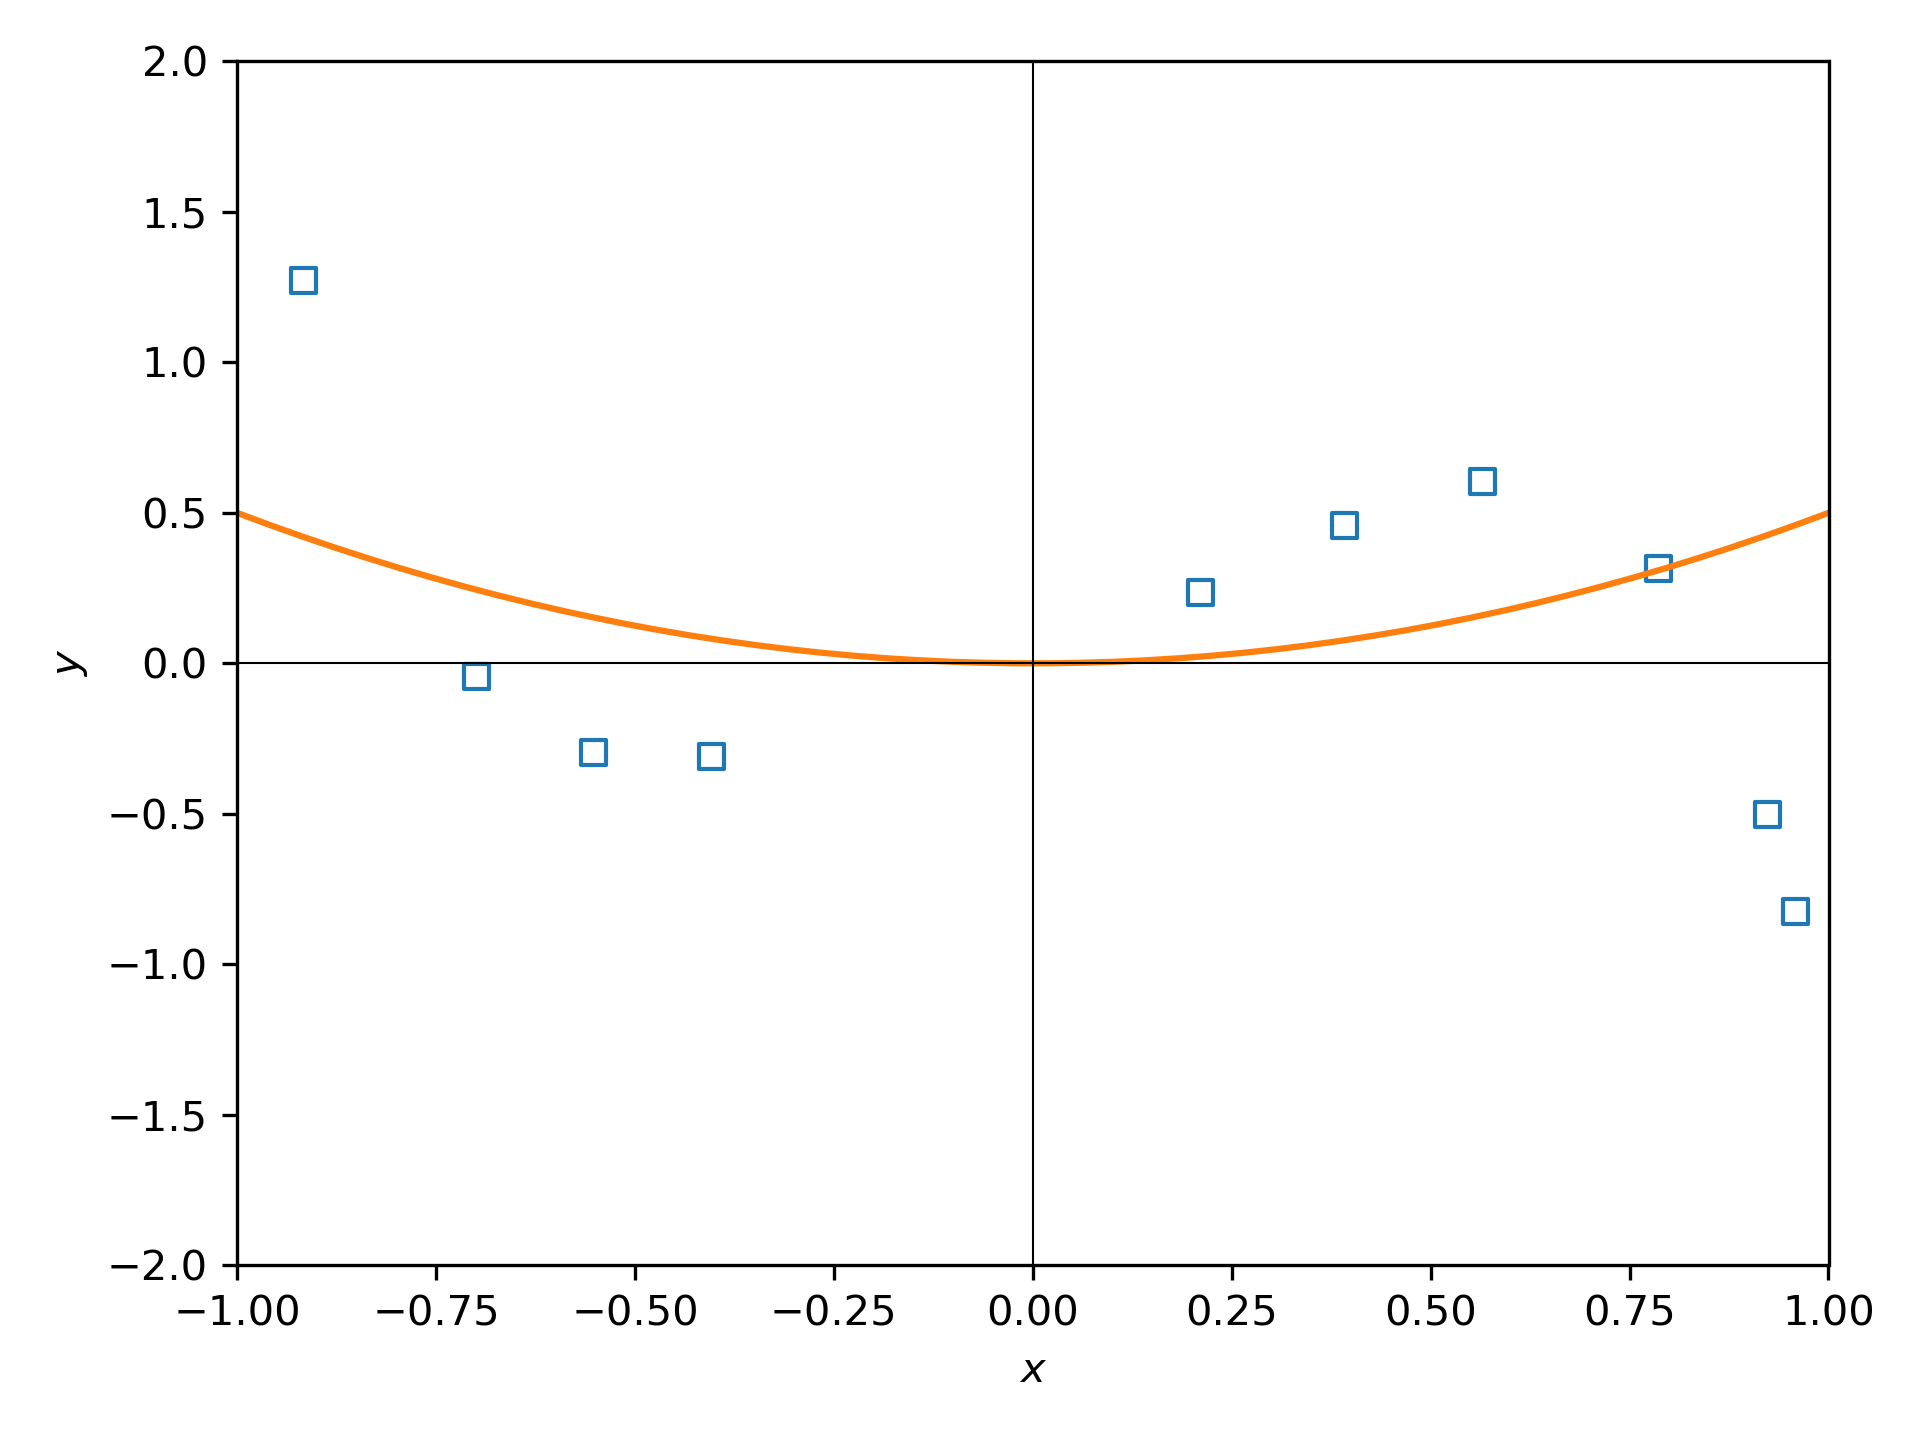
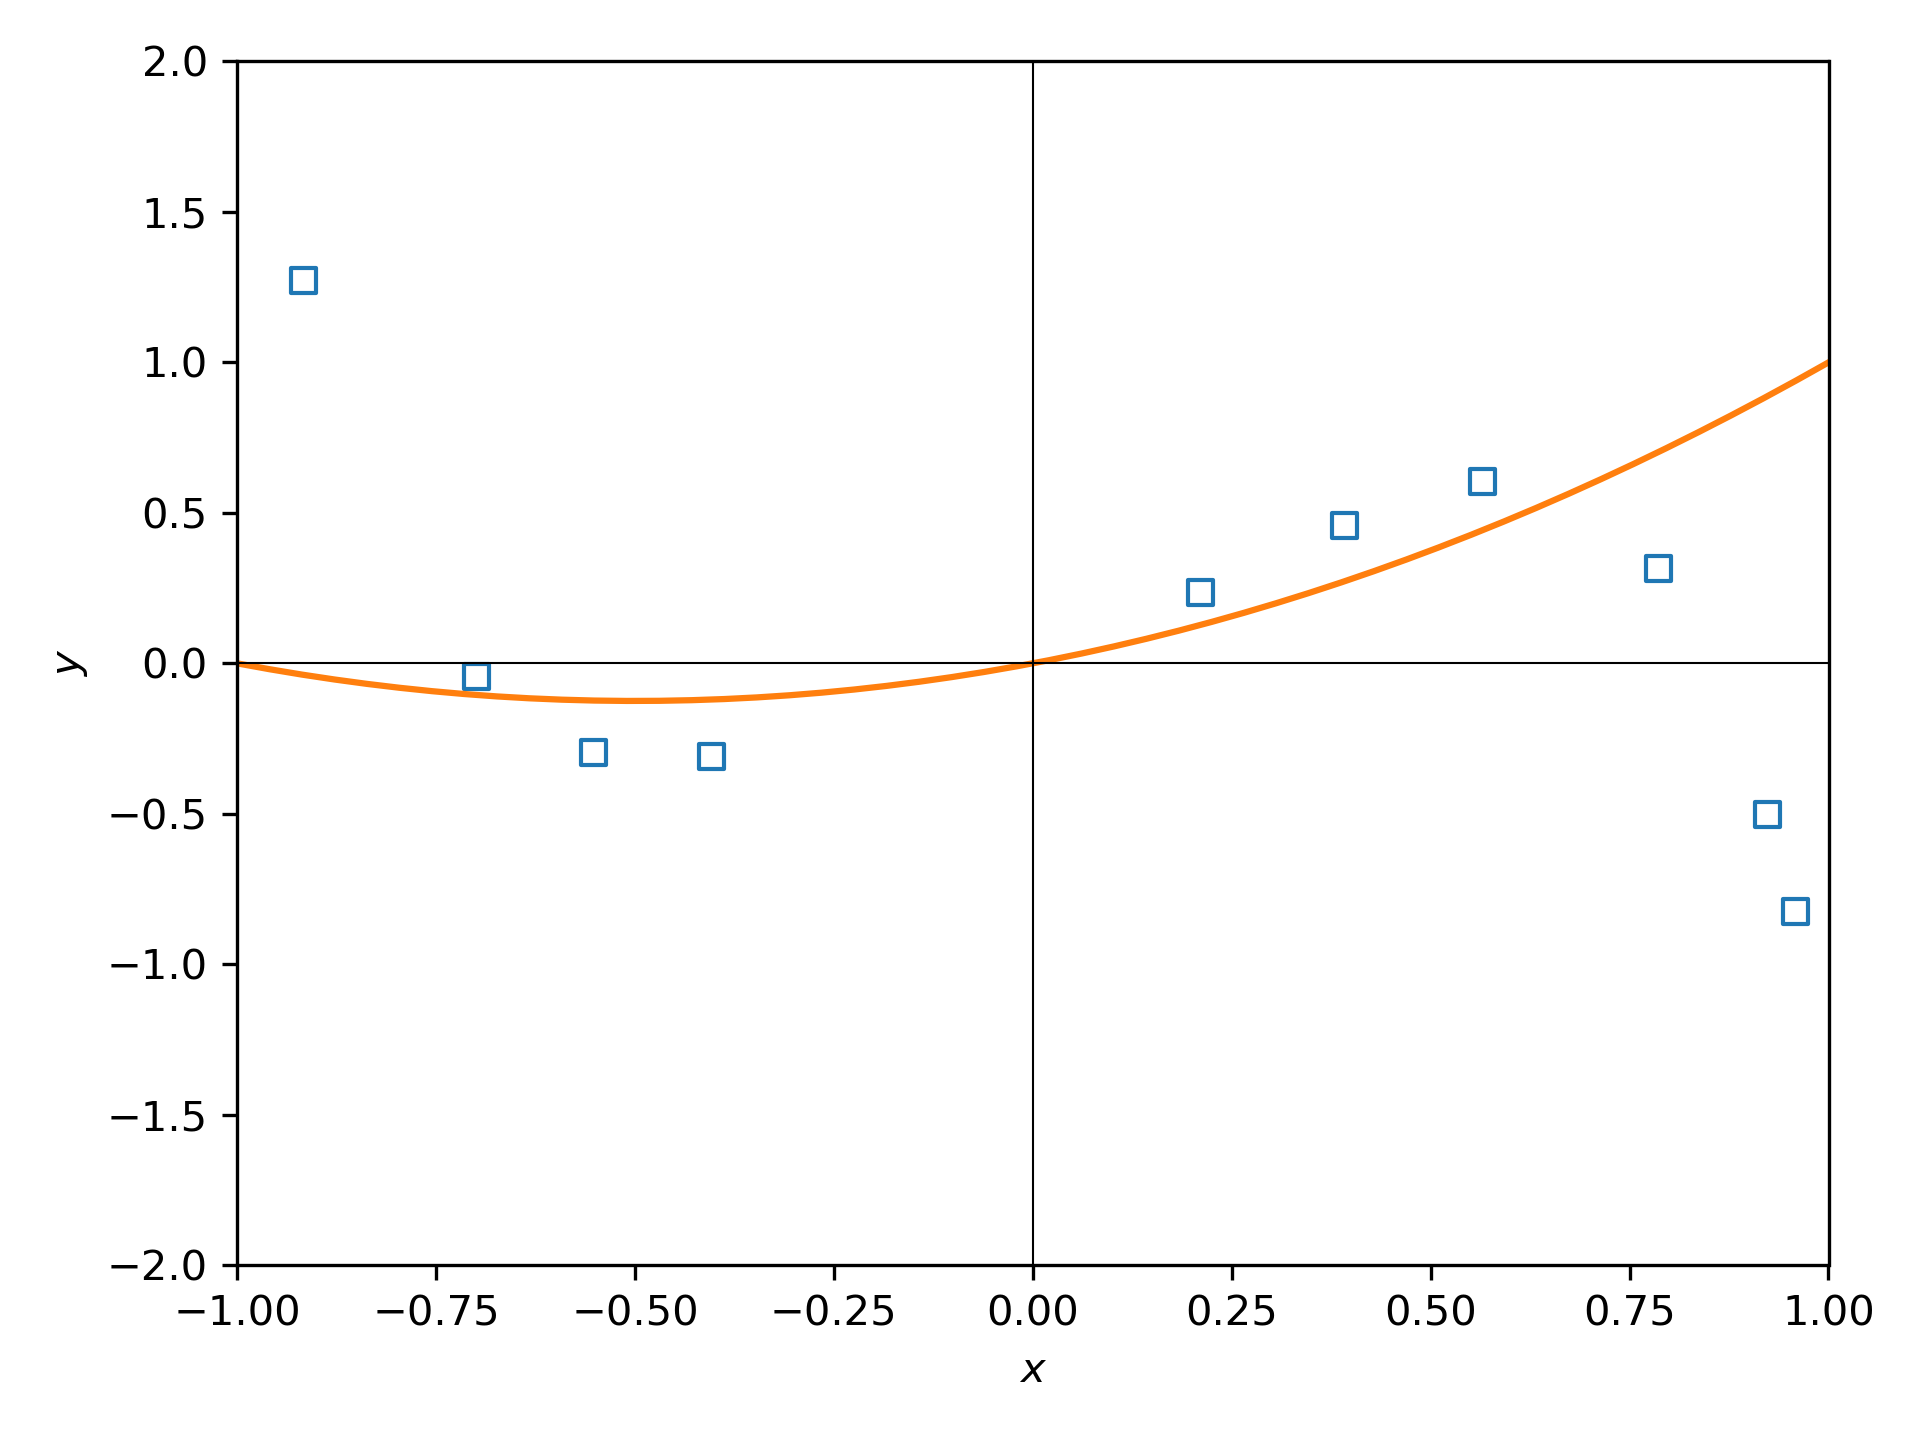
Updated fitting function

diff --git a/tutorials/git/fitting/fit_function.py b/tutorials/git/fitting/fit_function.py
@@ -14,7 +14,7 @@ def function(x, c):
     Returns:
         (np.ndarray): Value(s) of the function
     """
-    return c[0] * x**2
+    return c[0] * x + c[0] * x**2
 
 
 if __name__ == '__main__':
